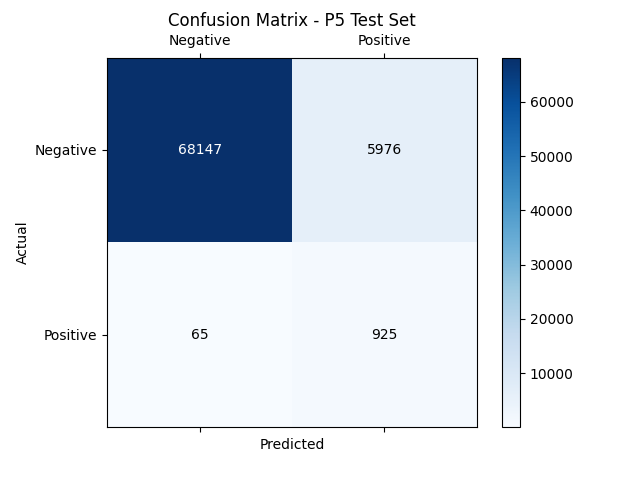
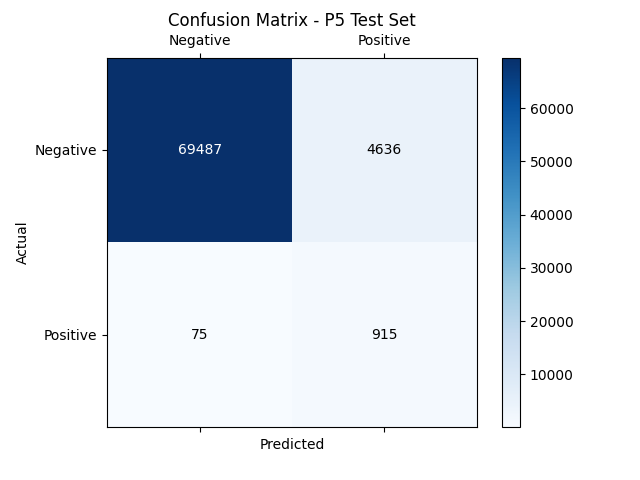
sucess

diff --git a/models/custom_cnn1d.py b/models/custom_cnn1d.py
@@ -33,8 +33,12 @@ class CustomCNN1D(nn.Module):
         self.b4_relu = nn.ReLU()
         
         # CLASSIFIER
-        self.dropout = nn.Dropout(0.25)
-        self.classifier = nn.Linear(128, 1)
+        self.classifier = nn.Sequential(
+            nn.Linear(256, 32),
+            nn.ReLU(),
+            nn.Dropout(0.25),
+            nn.Linear(32, 1)
+        )
         
     def forward(self, x):
         # x shape: [B, 24, 60]
@@ -51,11 +55,12 @@ class CustomCNN1D(nn.Module):
         # Block 4
         x = self.b4_relu(self.b4_bn(self.b4_pw(self.b4_dw(x)))) # [B, 128, 7]
         
-        # GAP
-        x = x.mean(dim=-1) # [B, 128]
+        # Global Temporal Pooling: Mean + Max
+        x_mean = x.mean(dim=-1)      # [B, 128]
+        x_max = x.max(dim=-1)[0]     # [B, 128]
+        x = torch.cat([x_mean, x_max], dim=1)  # [B, 256]
         
         # Classifier
-        x = self.dropout(x)
         x = self.classifier(x) # [B, 1]
         
         return x
